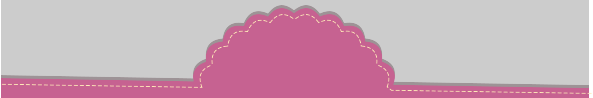
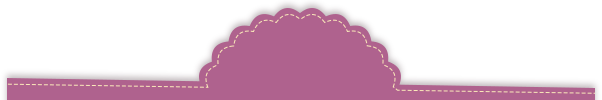
notification fixes

diff --git a/css/app.css b/css/app.css
@@ -1,6 +1,9 @@
 html, body {
   height: 100%;
   font-size: 13px;
+  font-family: tahoma, sans-serif;
+  padding: 0;
+  margin: 0;
 }
 
 h1 {
@@ -10,7 +13,7 @@ h1 {
 a {
   outline: 0 none;
   text-decoration: none;
-  color: #008ccb;
+  color: #008bc8;
 }
 
 a:hover {
@@ -63,6 +66,7 @@ p {
   box-shadow: 2px 2px 4px 0 rgba(0,0,0,0.75);
   border-radius: 1px;
   position: relative;
+  overflow: hidden;
 }
 
 #gifter_header {
@@ -93,14 +97,10 @@ p {
   position: relative;
 }
 
-.gifter_content_text {
-  font-size: 14px;
-  font-weight: 600;
-}
-
 .gifter_content_text span {
-  font-size: 12px;
-  font-weight: 400;
+  font-size: 17px;
+  font-weight: 600;
+  font-family: arial;
 }
 
 /**
@@ -123,7 +123,7 @@ p {
   display: inline-block;
   margin: 0 20px;
   padding: 0 10px;
-  color: #255E96;
+  color: #536069;
 }
 
 .gifter_send_btn img {
@@ -171,7 +171,7 @@ p {
 }
 
 #gifter_notify_wrapper.gifter_notify_hidden #gifter_notify {
-  top: -100%;
+  top: 100%;
   transition: top 0.25s ease 0.5s;
 }
 
@@ -196,7 +196,7 @@ p {
   height: 100%;
   width: 100%;
   background-color: rgba(0,0,0,0.5);
-  transition: background-color 0.25s ease 0s;
+  transition: background-color 0.25s ease-out 0s;
 }
 
 #gifter_notify {
@@ -205,7 +205,7 @@ p {
   left: 0;
   height: 100%;
   width: 100%;
-  transition: top 0.5s ease 0.25s;
+  transition: top 0.5s ease-out 0s;
 }
 
 #gifter_notify_header {
@@ -216,18 +216,19 @@ p {
 #gifter_notify_header img {
   position: relative;
   top: 45px;
-  transition: top 0.5s ease-in 0.5s;
+  transition: top 0.5s ease-out 0.25s;
 }
 
 #gifter_notify_content {
-  background-color: #c66291;
+  background-color: #AF628E;
   color: #ffffff;
+  padding: 10px 0 5px;
 }
 
 #gifter_notify_content .gifter_notify_content_inner {
   max-height: 500px;
   opacity: 1;
-  transition: max-height 0.25s ease-in 0.5s, opacity 0.25s ease 0.75s;
+  transition: max-height 0.5s ease-out 0.2s, opacity 0.4s ease-out 0.6s;
 }
 
 #gifter_notify_content .gifter_notify_content_leader {
@@ -246,15 +247,16 @@ p {
 
 .submit-btn {
   width: 110px;
-  background-color: #ffffff;
+  background-color: #F1F1F1;
   font-size: 13px;
   height: 30px;
   line-height: 30px;
-  color: #255E96;
+  color: #536069;
   box-shadow: 1px 1px 3px 0 rgba(100,100,100,0.5);
   border-radius: 2px;
   border: 0 none;
   margin: 0 3px;
+  cursor: pointer;
 }
 
 .share input {

diff --git a/index.html b/index.html
@@ -24,13 +24,13 @@
             </span>
             <div class="gifter_content_text">
               <p>
-                Ответит ли <a class="gifter_content_link" href="javascript:void(0);"></a>
-                взаимностью?
+                <span>
+                  Ответит ли <a class="gifter_content_link" href="javascript:void(0);"></a>
+                  взаимностью?
+                </span>
               </p>
               <p>
-                <span>
-                  Когда он/она подарит вам пирожное в ответ, вы оба получите призы.
-                </span>
+                Когда он/она подарит вам пирожное в ответ, вы оба получите призы.
               </p>
             </div>
           </div>
@@ -45,7 +45,7 @@
               </div>
               <div id="gifter_notify_content">
                 <div class="gifter_notify_content_inner">
-                  <img src="img/sweet_couple.jpg" alt="Sweet couple" />
+                  <img src="img/users.png" alt="Sweet couple" />
                   <div class="gifter_notify_content_leader">
                     Вы получаете 10 ставок в Лидере сайта
                   </div>
@@ -54,9 +54,9 @@
                     <strong>Алёна ответила вам взаимностью</strong>
                   </div>
                   <form id="gifter_form" action="" method="post">
-                    <input class="submit-btn" type="submit" value="Good!">
+                    <input class="submit-btn" type="submit" value="Отлично!">
                     <label class="share" for="share">
-                      <input type="checkbox" name="share">Share
+                      <input type="checkbox" name="share">Рассказать друзьям
                     </label>
                   </form>
                 </div>

diff --git a/js/gifter.js b/js/gifter.js
@@ -59,7 +59,7 @@
               "from": userA.getID()
             });
 
-            // here we can make request to the server
+            // here we can send data to the server
             // all data is available at storage.users
 
             // check if user A has gifts from user B
@@ -77,7 +77,8 @@
             notificationClass = 'gifter_notify_hidden';
         fn.removeClass(notification, notificationClass);
         fn.addEventListener(document.getElementById('gifter_form'), 'submit',
-          function() {
+          function(event) {
+            event.preventDefault();
             fn.addClass(notification, notificationClass);
             fn.removeEventListener(document.getElementById('gifter_form'), 'submit');
           }
